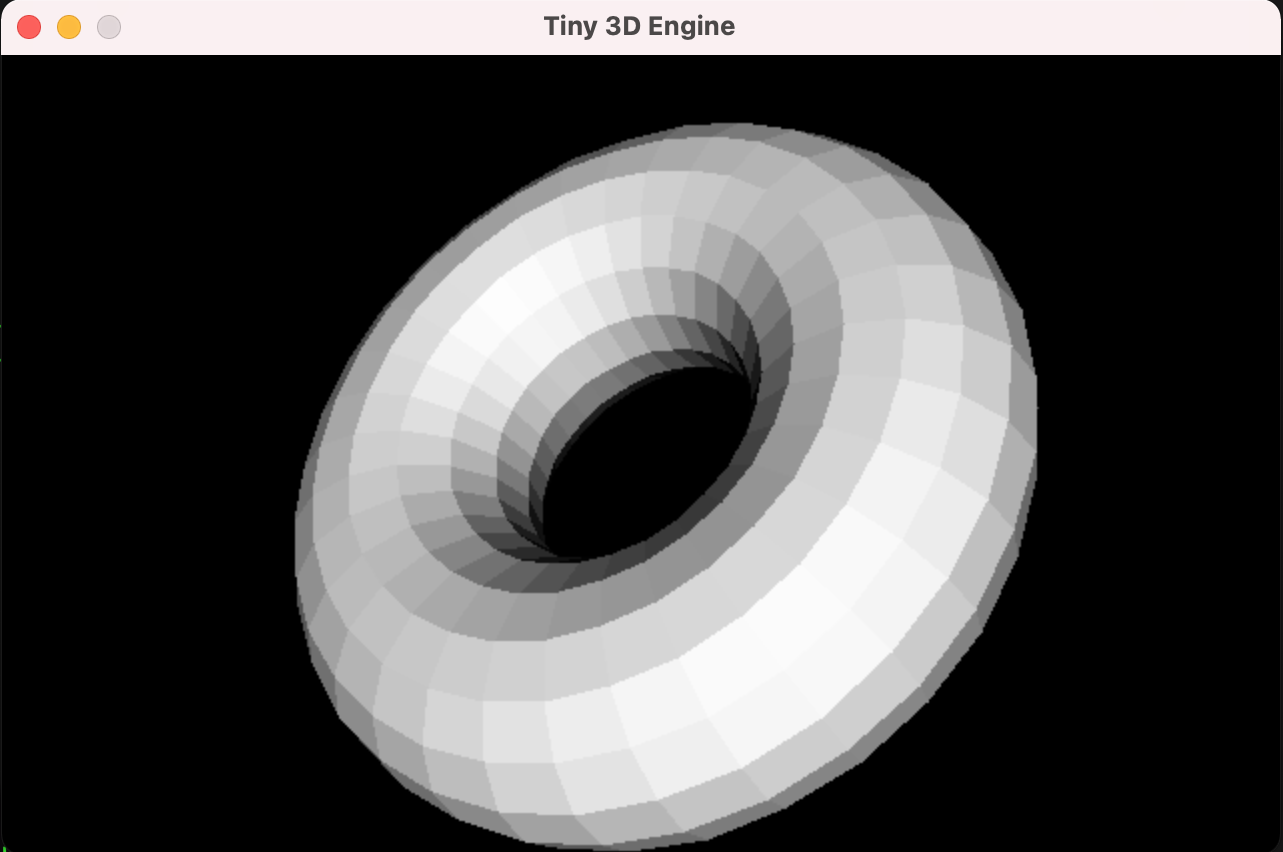
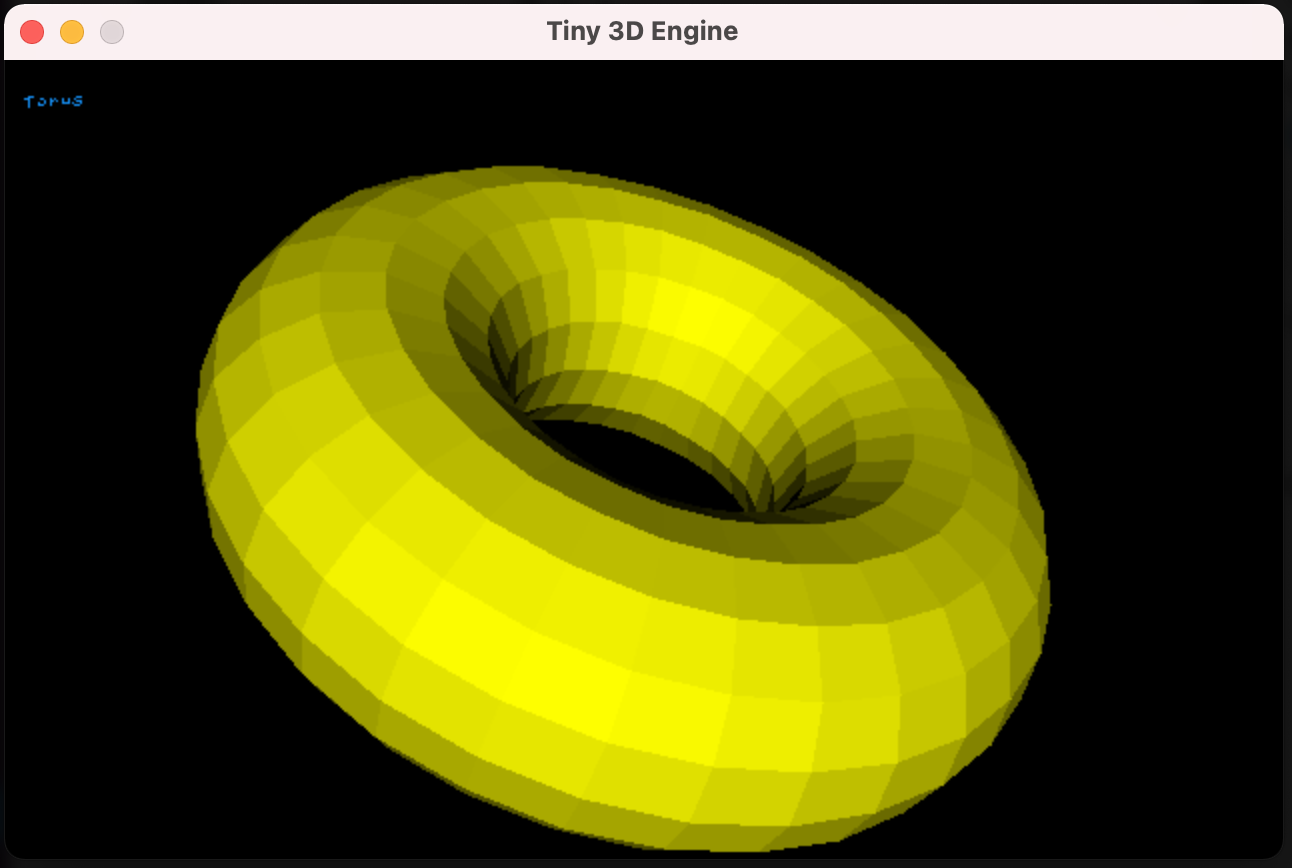
update readme, add some more screens

diff --git a/menu.cpp b/menu.cpp
@@ -154,13 +154,14 @@ void Menu::draw() {
   
   menufont->print(30, yOffset + 75, "ENTER : stop rotation");
 
-  menufont->print(menu_width-200, yOffset + 15,  "F      : Toggle Fullscreen");
-  menufont->print(menu_width-200, yOffset + 30,  "ARROWS : Walk around");
-  menufont->print(menu_width-200, yOffset + 45,  "R      : Change render mode");
-  menufont->print(menu_width-200, yOffset + 60,  "P      : Previous object");
-  menufont->print(menu_width-200, yOffset + 75,  "SPACE  : Next object");
+  menufont->print(menu_width-190, yOffset + 15,  "F      : Toggle Fullscreen");
+  menufont->print(menu_width-190, yOffset + 30,  "ARROWS : Walk around");
+  menufont->print(menu_width-190, yOffset + 45,  "R      : Change render mode");
+  menufont->print(menu_width-190, yOffset + 60,  "P      : Previous object");
+  menufont->print(menu_width-190, yOffset + 75,  "SPACE  : Next object");
 
   menufont->print_wavy(screen->center_x - 50, yOffset + 10, "Tiny 3d Engine");
+  menufont->print(screen->center_x-80, yOffset+70, "Palette colors: 0-7");
   menufont->print(screen->center_x - 100, yOffset + 85, "Author: Walter Schreppers");
 }
 

diff --git a/README.md b/README.md
@@ -12,7 +12,7 @@ on my pentium in the 90's in turbo pascal ;).
 Title screen that also shows a menu with alpha blending:
 ![Menu screen](screens/3dlogo.png?raw=true "Simple logo drawn in 3d")
 
-Torus generated as rotation object and rendered with shading (+1000 triangles here).
+Torus generated as rotation object and rendered with shading (+1000 triangles here). Palette changed by pressing '4'
 ![Torus](screens/torus.png?raw=true "Torus with backface culling and shading with normals")
 
 Glass generated as rotation object and rendered using triangle lines
@@ -20,6 +20,9 @@ Glass generated as rotation object and rendered using triangle lines
 
 Some free supercar model from the internet, cleaned up and exported with blender
 ![Menu screen](screens/car_object_render.png?raw=true "Detailed car object exported with blender")
+
+Dodecahedron exported with blender (and changed to green palette by pressing '2'):
+![Menu screen](screens/dodecahedron.png?raw=true "Dodecahedron")
 
 
 # Installation
